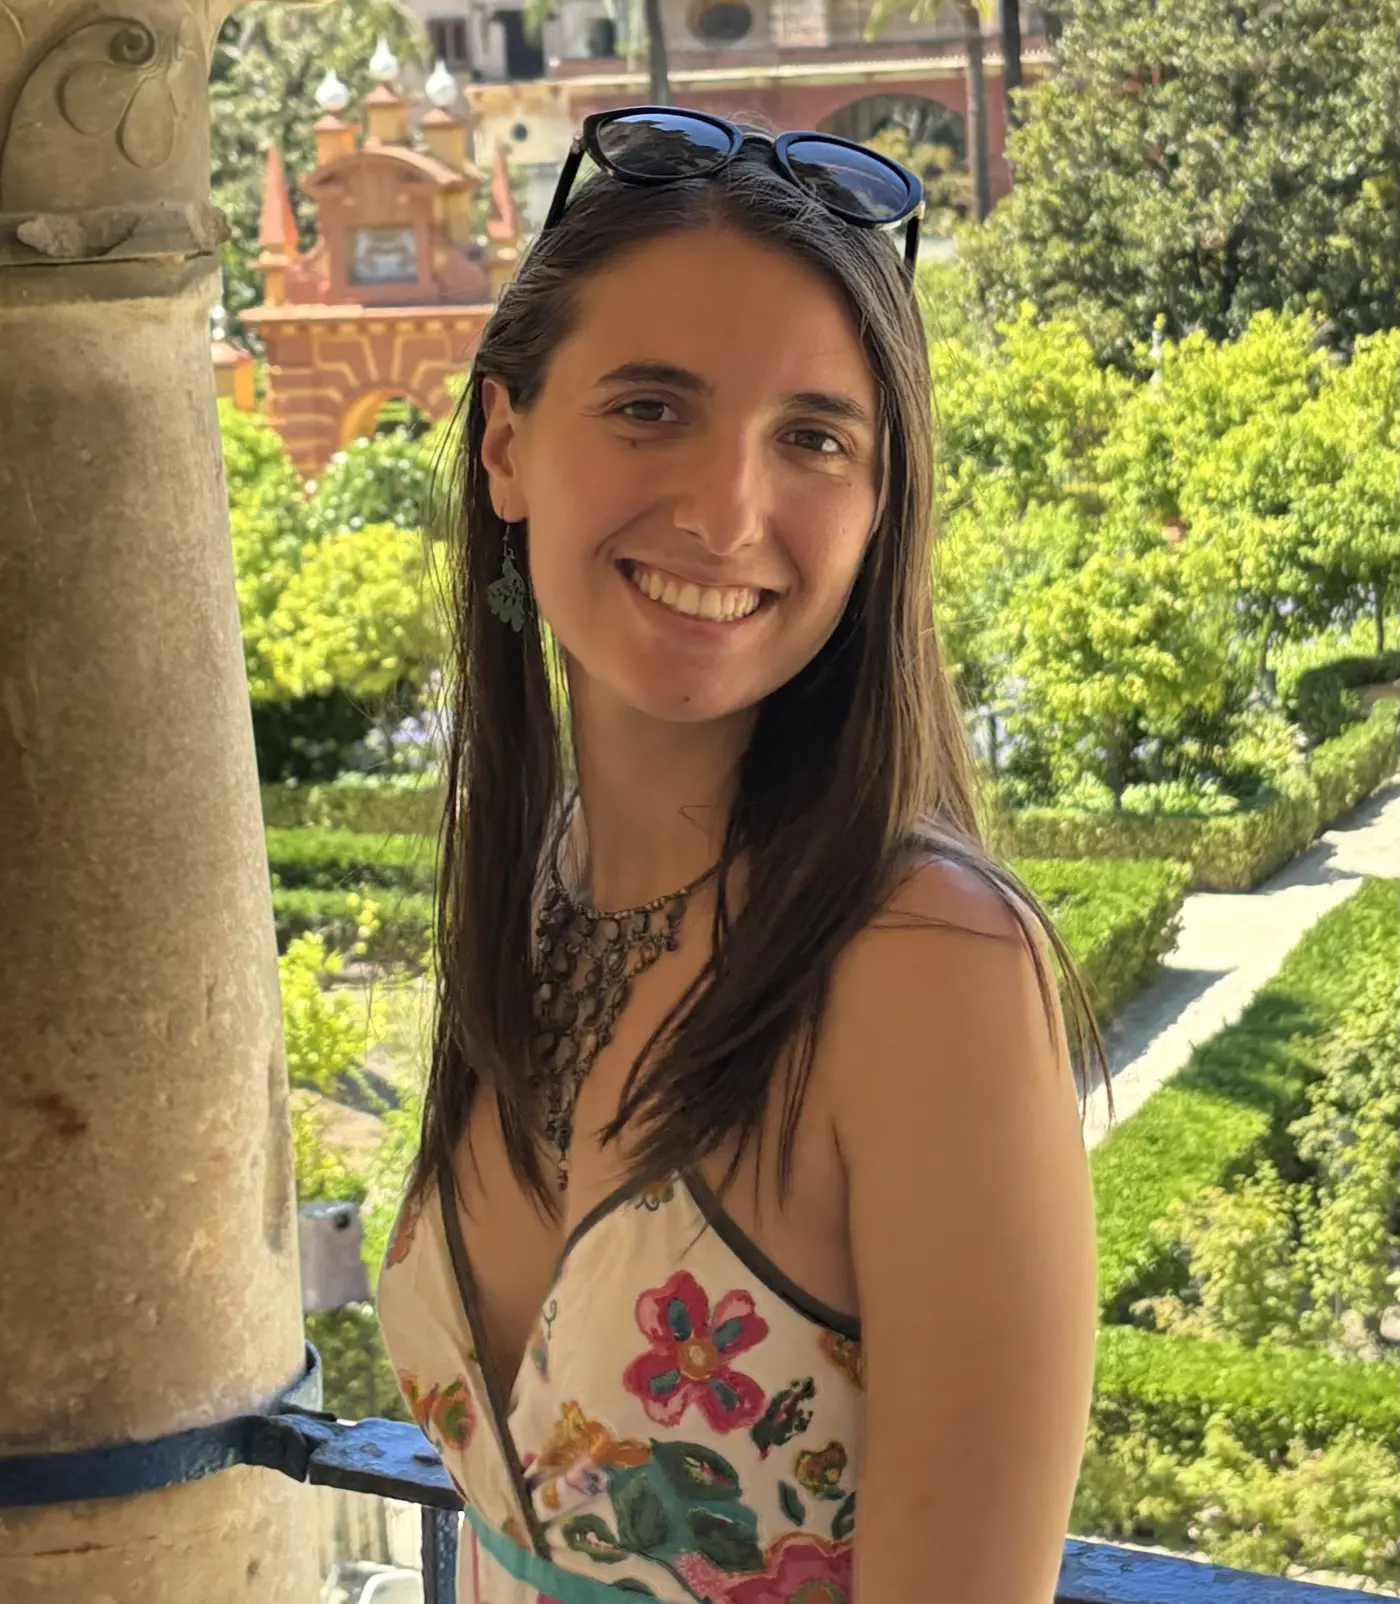
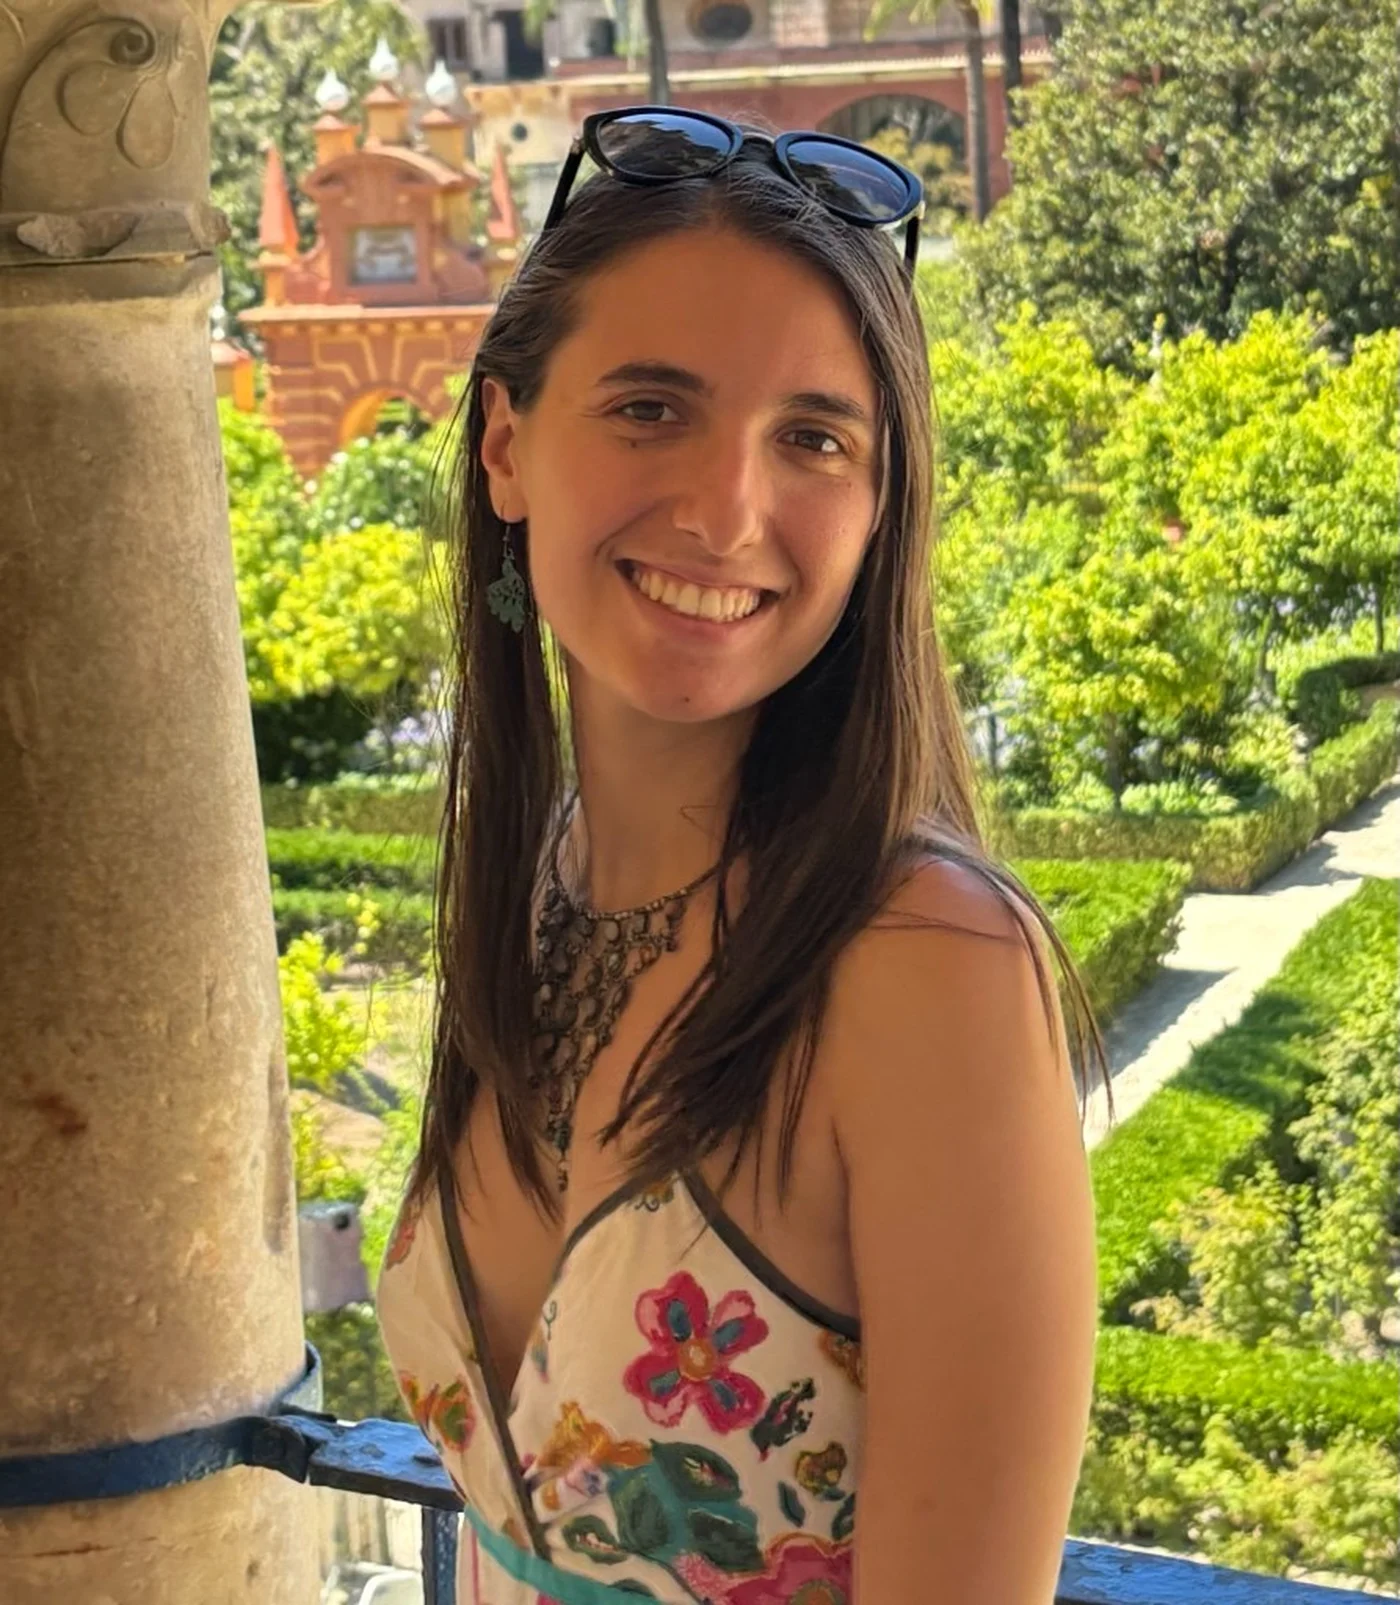
Update profile photo to new JPEG and fix broken publications link on people page.

diff --git a/_pages/about_einstein.md b/_pages/about_einstein.md
@@ -1,5 +1,5 @@
 Write your biography here. Tell the world about yourself. Link to your favorite [subreddit](https://www.reddit.com). You can put a picture in, too. The code is already in, just name your picture `prof_pic.jpg` and put it in the `img/` folder.
 
-Put your address / P.O. box / other info right below your picture. You can also disable any these elements by editing `profile` property of the YAML header of your `_pages/about.md`. Edit `_bibliography/papers.bib` and Jekyll will render your [publications page](/al-folio/publications/) automatically.
+Put your address / P.O. box / other info right below your picture. You can also disable any these elements by editing `profile` property of the YAML header of your `_pages/about.md`. Edit `_bibliography/papers.bib` and Jekyll will render your [publications page](/publications/) automatically.
 
 Link to your social media connections, too. This theme is set up to use [Font Awesome icons](https://fontawesome.com/) and [Academicons](https://jpswalsh.github.io/academicons/), like the ones below. Add your Facebook, Twitter, LinkedIn, Google Scholar, or just disable all of them.
